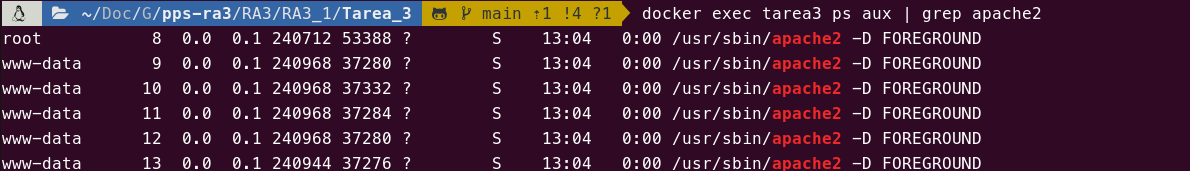
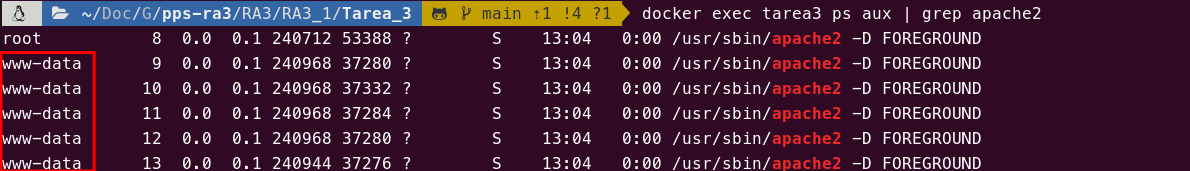
chore: resaltar imagenes tarea 3

Changed region(s): [[0.0, 0.2924, 0.0933, 1.0]]

diff --git a/RA3/RA3_1/Tarea_3/README.md b/RA3/RA3_1/Tarea_3/README.md
@@ -297,6 +297,8 @@ Server: Servidor_Seguro_PPS
 
 **Objetivo:** Confirmar que la información del servidor está ofuscada para evitar reconocimiento de versión.
 
+---
+
 ### 8. Verificar permisos de directorios
 - **Comando:**
 
@@ -311,6 +313,8 @@ docker exec tarea3 stat -c "%a" /var/log/apache2
 En ambos casos:
 750
 ```
+
+---
 
 ### 9. Verificaciń de Apache ejecutándose con usuario no privilegiado:**
 
